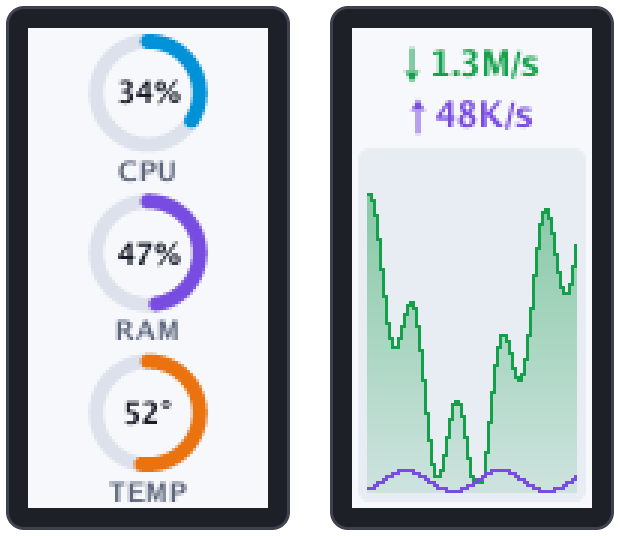
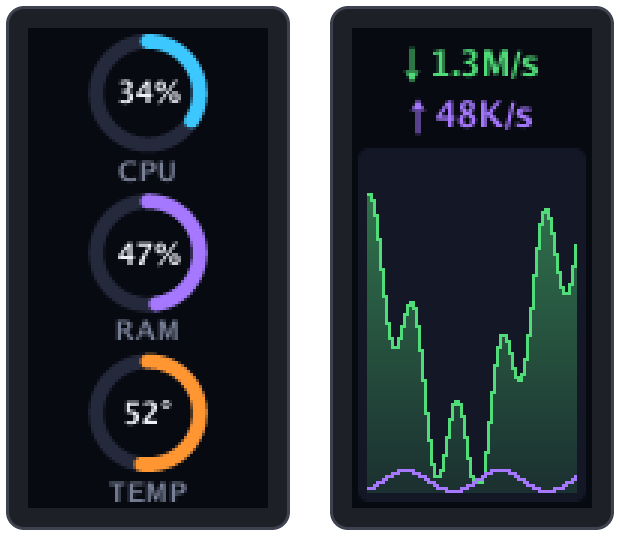
miniscreenBsd : thème sombre de nouveau par défaut, option -light
Retour au thème sombre par défaut ; le thème clair reste disponible avec
« info -light » (l'option -dark disparaît). Captures et README mis à jour.

diff --git a/freebsd/main.go b/freebsd/main.go
@@ -29,7 +29,7 @@ const usage = `miniscreen - pilote pour l'écran WeAct Display FS 0.96" (160x80)
 Usage : miniscreen [options] <commande> [arguments]
 
 Commandes :
-  info  [-interval 1s] [-rotate 8s] [-page N] [-dark]
+  info  [-interval 1s] [-rotate 8s] [-page N] [-light]
                                     tableau de bord : jauges CPU / RAM / temp, réseau (Ctrl+C pour quitter)
   image [-cover] [-loop N] <fichier>  affiche une image (png, jpg, gif animé, bmp, webp)
   text  [-color hex] [-bg hex] <texte>  affiche du texte, taille auto (\n = retour à la ligne)
@@ -84,10 +84,10 @@ func main() {
 		interval := fs.Duration("interval", time.Second, "intervalle de rafraîchissement")
 		rotate := fs.Duration("rotate", 8*time.Second, "durée d'affichage de chaque page")
 		page := fs.Int("page", 0, "page fixe : 1 jauges, 2 réseau (0 = rotation)")
-		dark := fs.Bool("dark", false, "thème sombre au lieu du thème clair")
+		light := fs.Bool("light", false, "thème clair au lieu du thème sombre")
 		fs.Parse(args)
-		if *dark {
-			pal = darkPalette
+		if *light {
+			pal = lightPalette
 		}
 		check(runInfo(lcd, *interval, *rotate, *page-1))
 	case "image":

diff --git a/freebsd/dashboard.go b/freebsd/dashboard.go
@@ -40,7 +40,7 @@ type palette struct {
 	cyan, violet, orange, pink, green, red color.RGBA
 }
 
-// Thème clair par défaut ; accents plus foncés pour rester lisibles sur blanc.
+// Thème clair (option -light) ; accents plus foncés pour rester lisibles sur blanc.
 var lightPalette = palette{
 	bg:     color.RGBA{246, 248, 251, 255},
 	panel:  color.RGBA{232, 236, 243, 255},
@@ -71,7 +71,7 @@ var darkPalette = palette{
 	red:    color.RGBA{255, 60, 60, 255},
 }
 
-var pal = lightPalette
+var pal = darkPalette // thème par défaut
 
 // alert fait virer la couleur d'une jauge au rouge au-delà de 80 %.
 func alert(c color.RGBA, pct float64) color.RGBA {

diff --git a/freebsd/README.md b/freebsd/README.md
@@ -86,7 +86,7 @@ miniscreen [options] <command> [arguments]
 
 | Command | What it does |
 |---|---|
-| `info [-interval 1s] [-rotate 8s] [-page N] [-dark]` | Live dashboard with two pages: gauges and network (see below). Ctrl+C to quit. |
+| `info [-interval 1s] [-rotate 8s] [-page N] [-light]` | Live dashboard with two pages: gauges and network (see below). Ctrl+C to quit. |
 | `image [-cover] [-loop N] <file>` | Shows an image (png, jpg, bmp, webp, animated GIF). Fitted with black bars by default; `-cover` fills the screen and crops. `-loop` = number of GIF loops (0 = forever). |
 | `text [-color hex] [-bg hex] <text>` | Shows text, font size chosen automatically to fit. `\n` = new line. |
 | `clear [-color hex]` | Fills the screen with a colour (black by default). |
@@ -118,7 +118,7 @@ miniscreen clear -color 202040
 
 `info` alternates two pages (every 8 s by default, `-rotate` to change it,
 `-page N` to stay on one page). Each page has a landscape and a portrait layout.
-The theme is light; `-dark` switches to a dark theme.
+The theme is dark; `-light` switches to a light theme.
 
 1. **Gauges:** ring gauges for CPU, RAM and CPU temperature (plus GPU with an NVIDIA
    card), each in its own colour, turning red above 80 %, with hostname and uptime.
